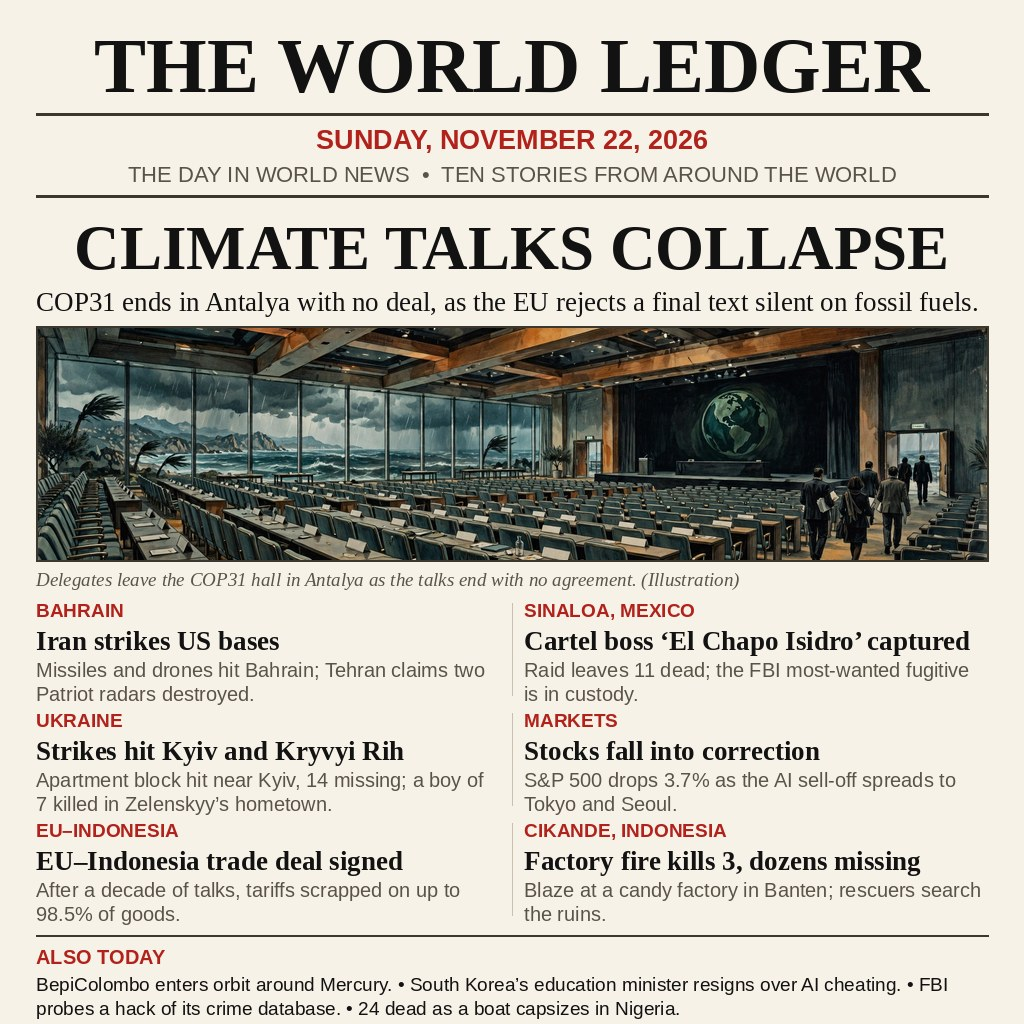
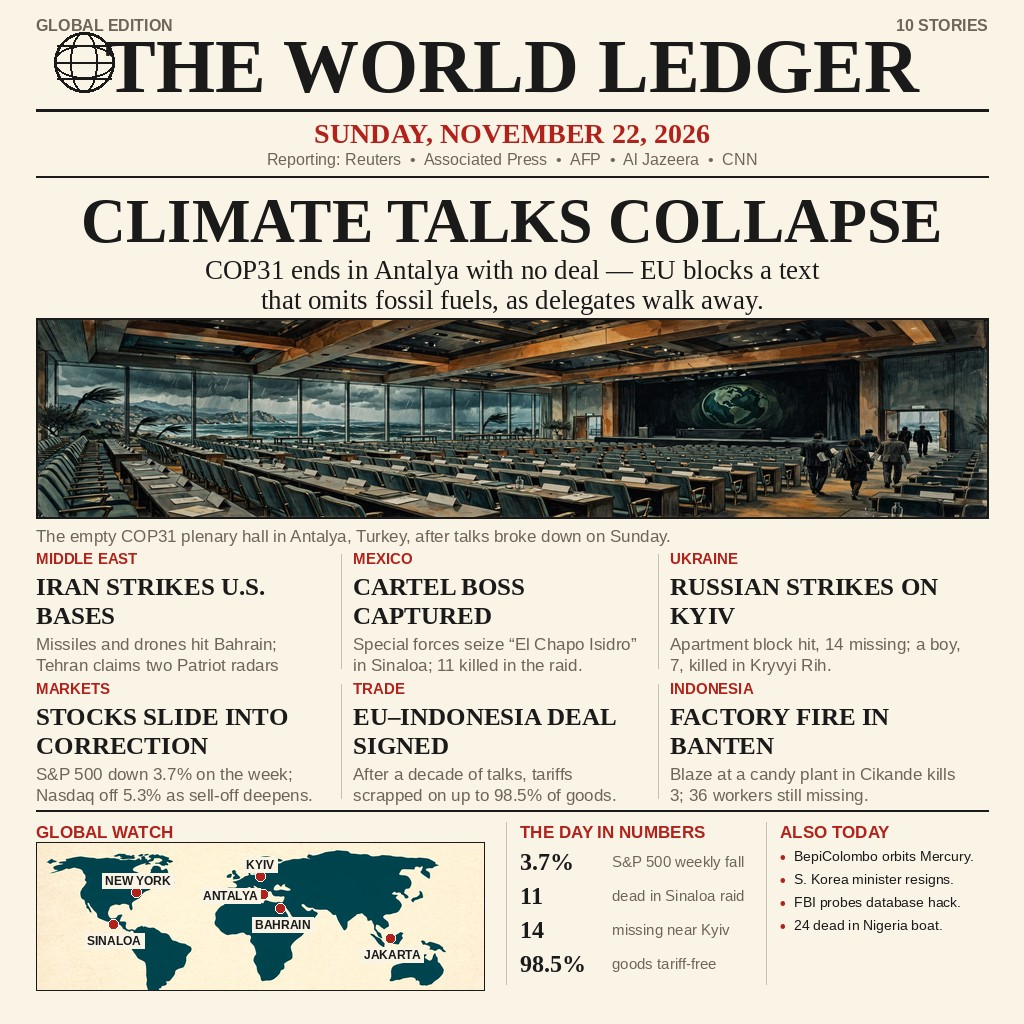
v2: add Global Watch map, Day in Numbers, sources line

diff --git a/README.md b/README.md
@@ -6,9 +6,10 @@ news of Sunday 22 November 2026.
 ## The image
 
 A newspaper front page, composed as `entry.png` (1024×1024, JPEG bytes under
-the name `entry.png`, 276 KB):
+the name `entry.png`, ~290 KB):
 
-- **Masthead** — "THE WORLD LEDGER", dated **Sunday, November 22, 2026**.
+- **Masthead** — "THE WORLD LEDGER", dated **Sunday, November 22, 2026**,
+  with a sources line naming Reuters, AP, AFP, Al Jazeera and CNN.
 - **Lead** — "CLIMATE TALKS COLLAPSE": COP31 ends in Antalya with no deal,
   the EU rejecting a final text silent on fossil fuels, over a purpose-built
   illustration of the empty COP31 hall (storm over the sea outside, delegates
@@ -27,6 +28,10 @@ the name `entry.png`, 276 KB):
   5. **EU–Indonesia** — Trade deal signed after a decade of talks; tariffs
      scrapped on up to 98.5% of goods.
   6. **Cikande, Indonesia** — Factory fire kills 3, dozens missing.
+- **Global Watch** — a world map with the six story locations dotted and
+  labelled (Antalya, Bahrain, Sinaloa, Kyiv, Jakarta, New York).
+- **The Day in Numbers** — 3.7% (S&P 500 weekly fall), 11 (dead in the
+  Sinaloa raid), 14 (missing near Kyiv), 98.5% (goods tariff-free).
 - **Also today** — BepiColombo enters orbit around Mercury; South Korea's
   education minister resigns over AI cheating; FBI probes a hack of its crime
   database; 24 dead as a boat capsizes in Nigeria.
